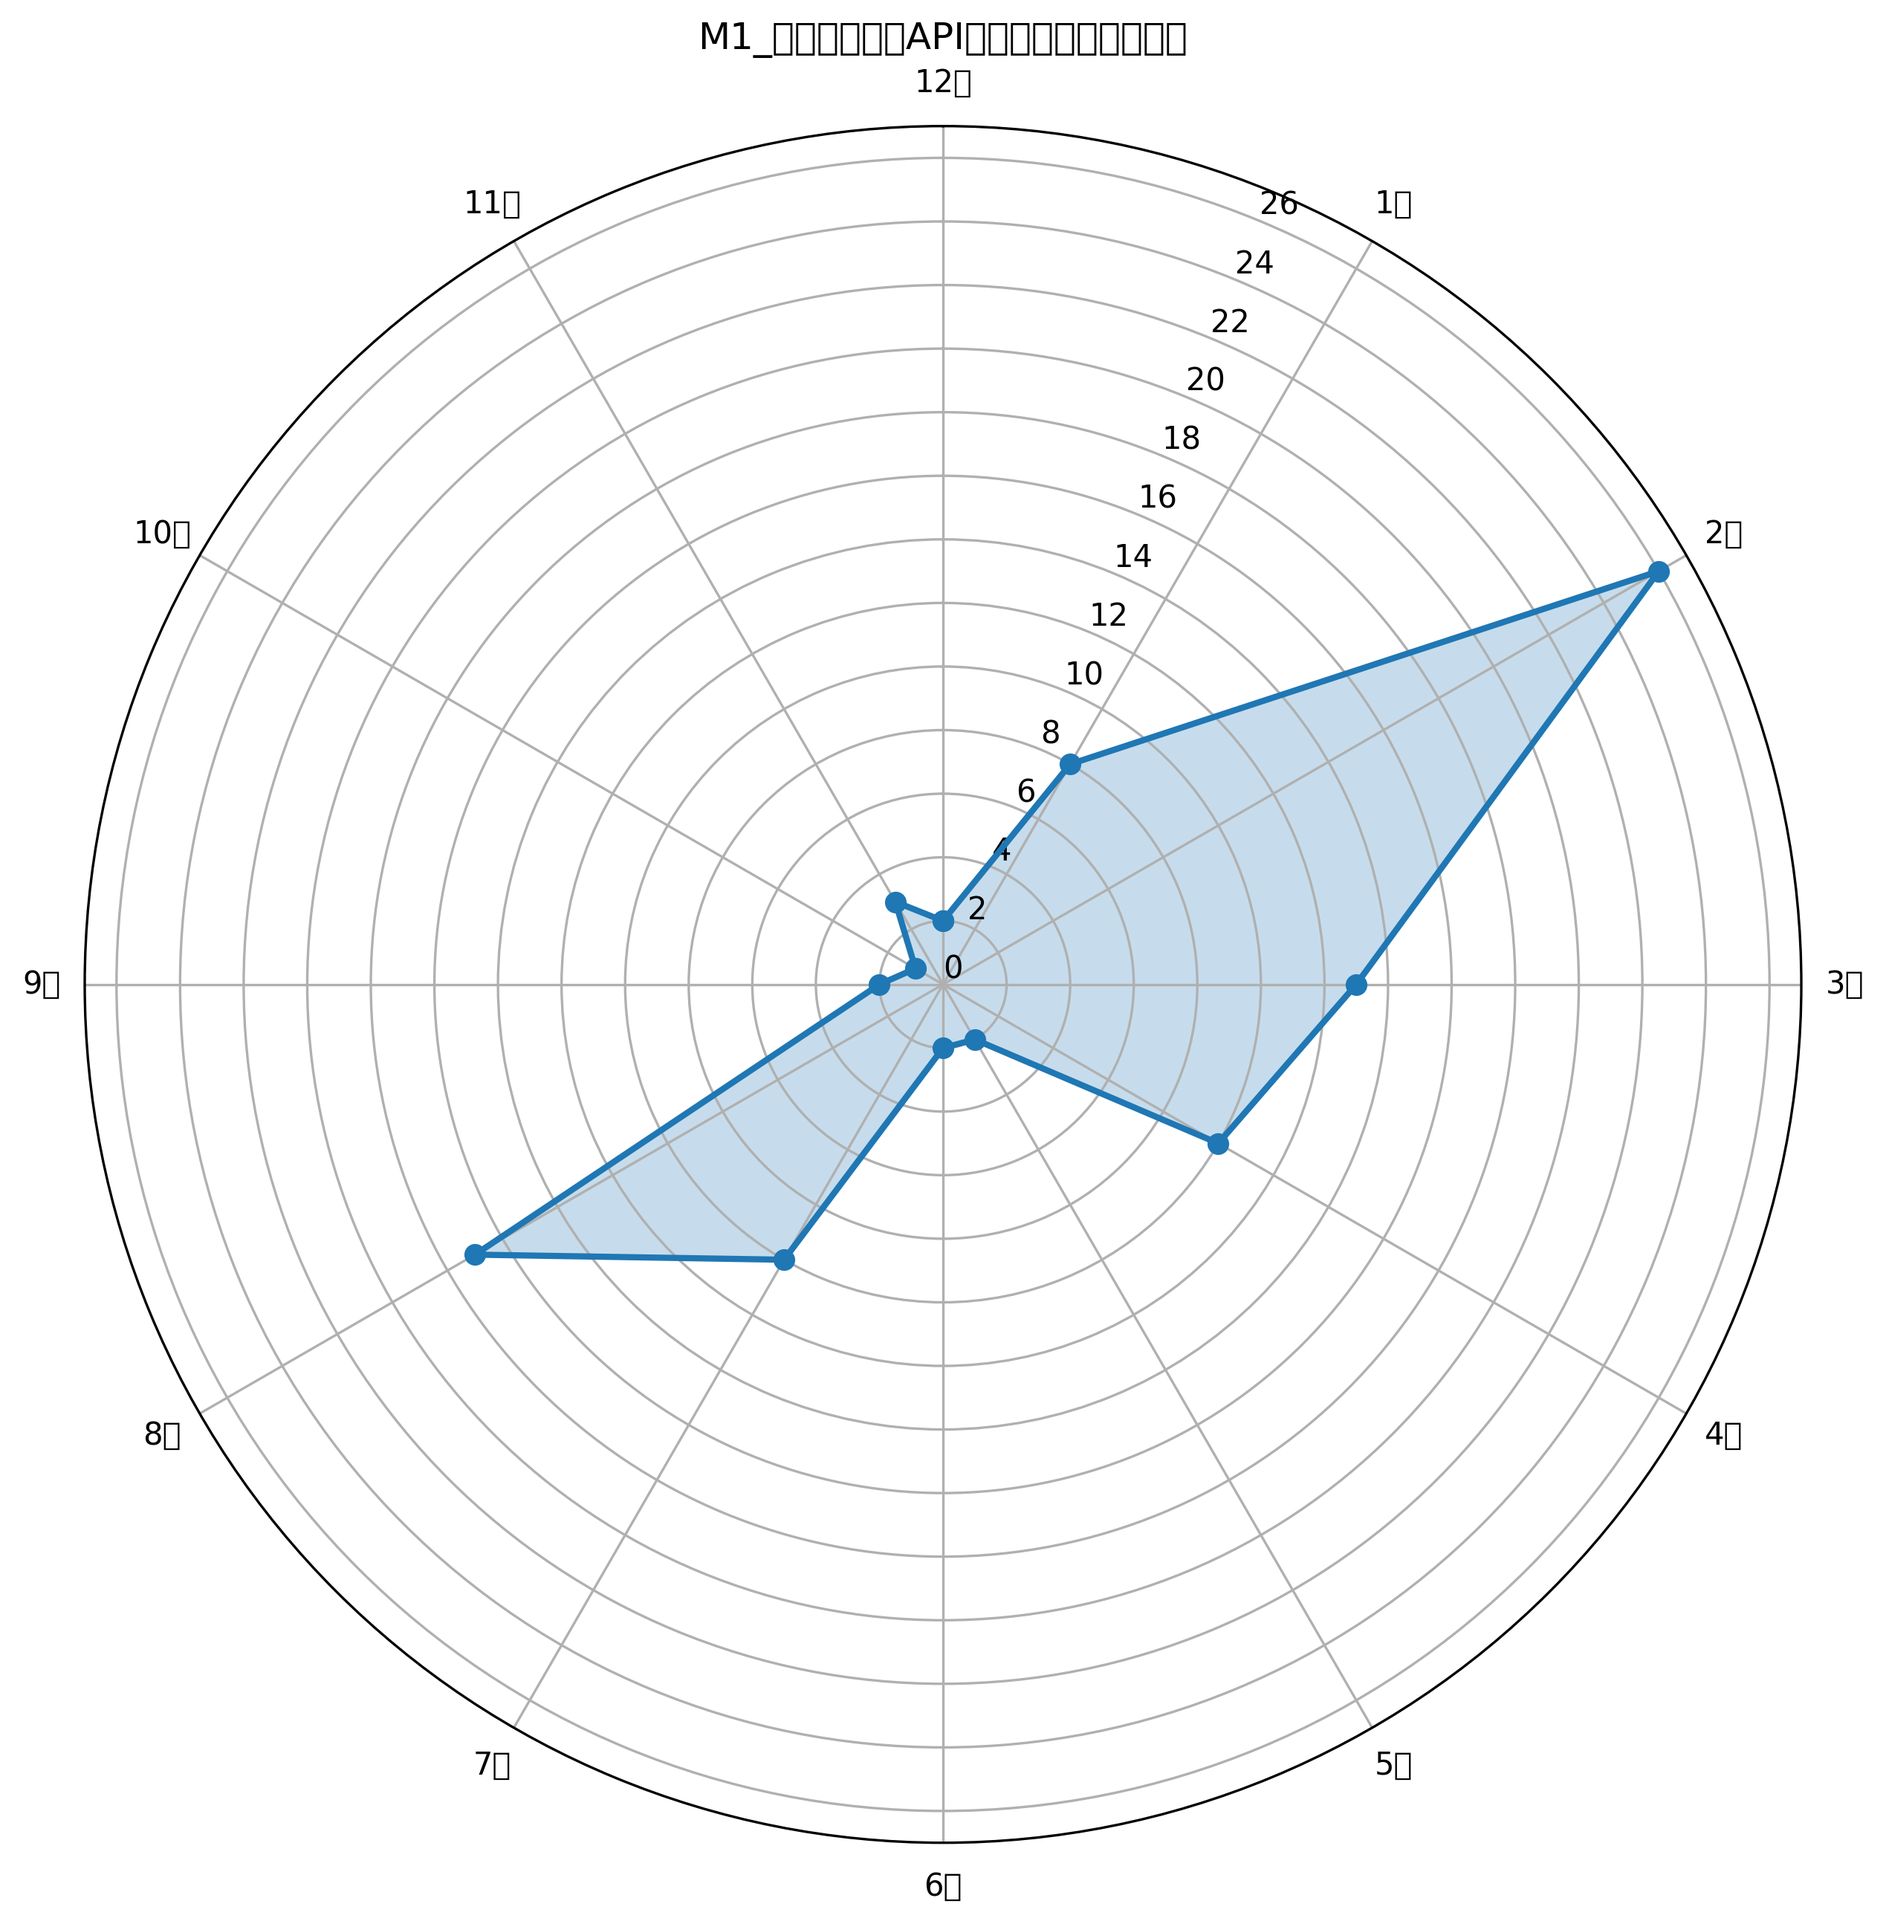
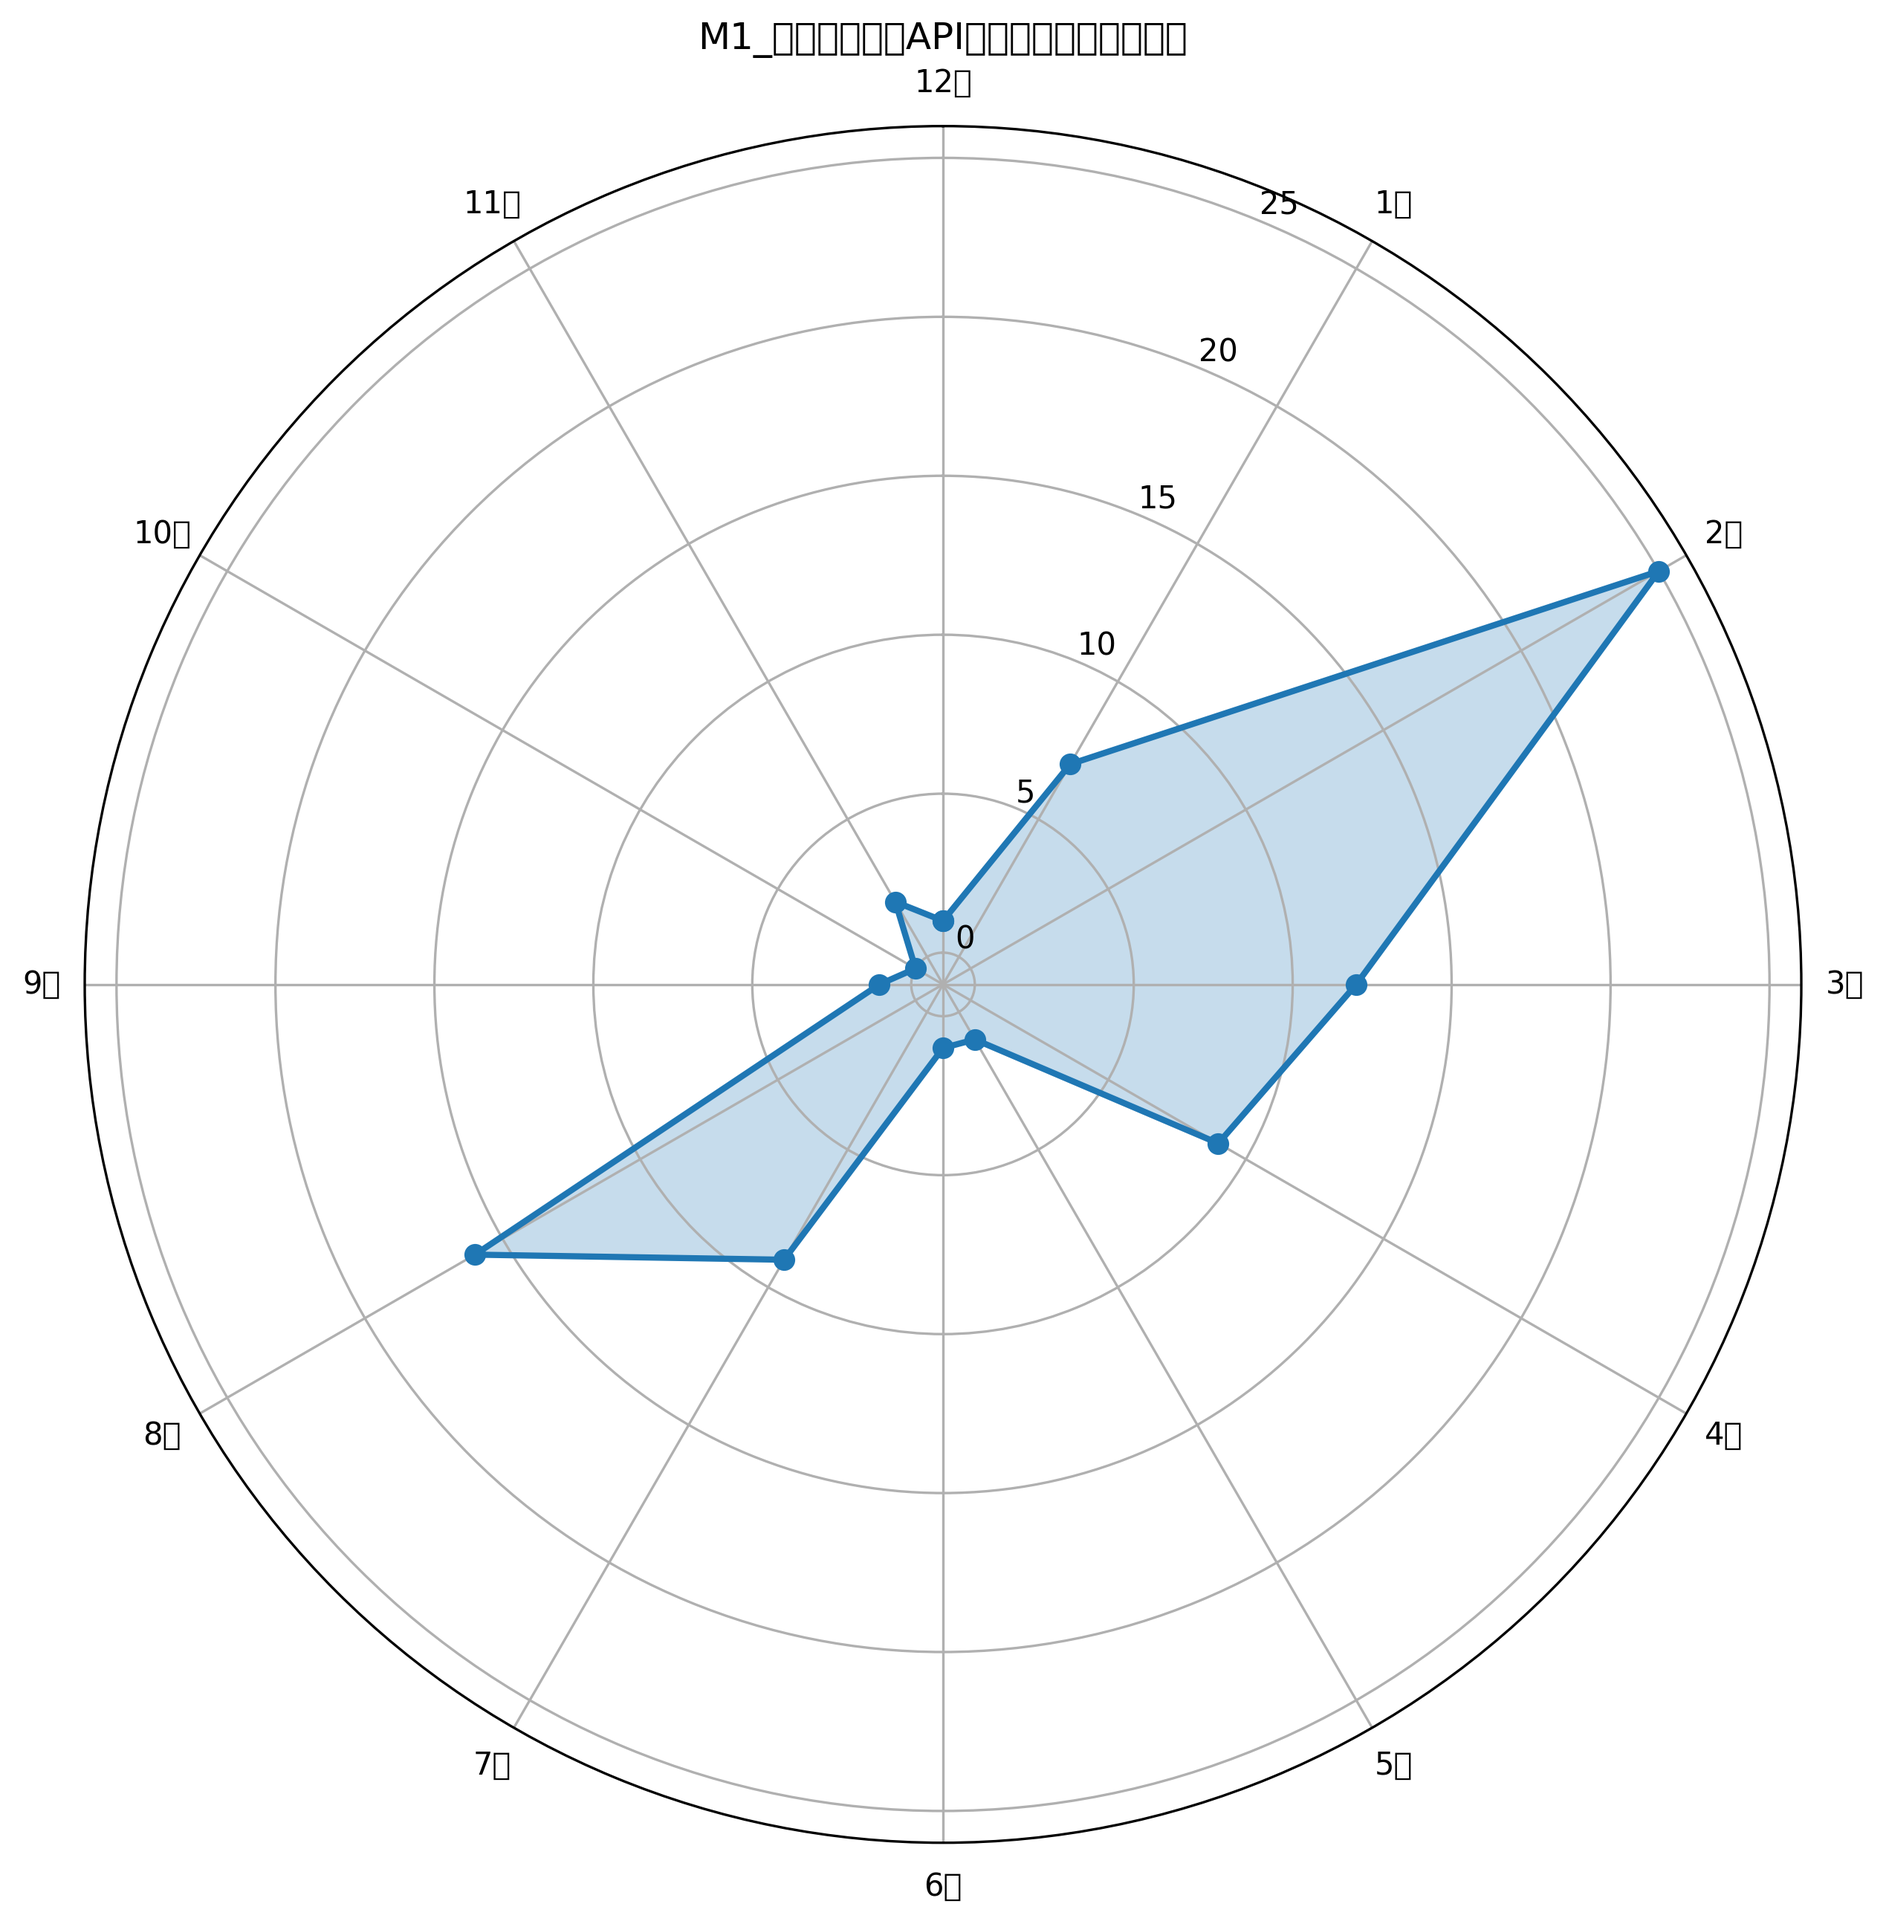
Auto-save: 2025-09-16 05:45:30

diff --git a/report-autogenerator/radar_chart.py b/report-autogenerator/radar_chart.py
@@ -37,8 +37,13 @@ def create_radar_chart(counts, sheet_name, out_dir):
     ax.set_thetagrids(np.arange(0, 360, 30), labels)
     rmax = max(max(values), 6) + 1  # 最小値を調整（データが少ない場合でも見やすく）
     ax.set_rlim(0, rmax)  # 原点を0に設定
-    rticks = list(range(0, rmax, 2))  # 目盛りを0から2単位で開始
+    
+    # 目盛りの設定
+    # 実際の半径から1を引いて表示（半径1を0として表示）
+    rticks = list(range(1, rmax, 5))  # 1から開始して5刻みで目盛りを設定
     ax.set_yticks(rticks)
+    # 目盛りのラベルを調整（実際の値から1を引く）
+    ax.set_yticklabels([str(int(x - 1)) for x in rticks])
     
     # タイトル
     ax.set_title(f'{sheet_name}のAPI分類レーダーチャート')
